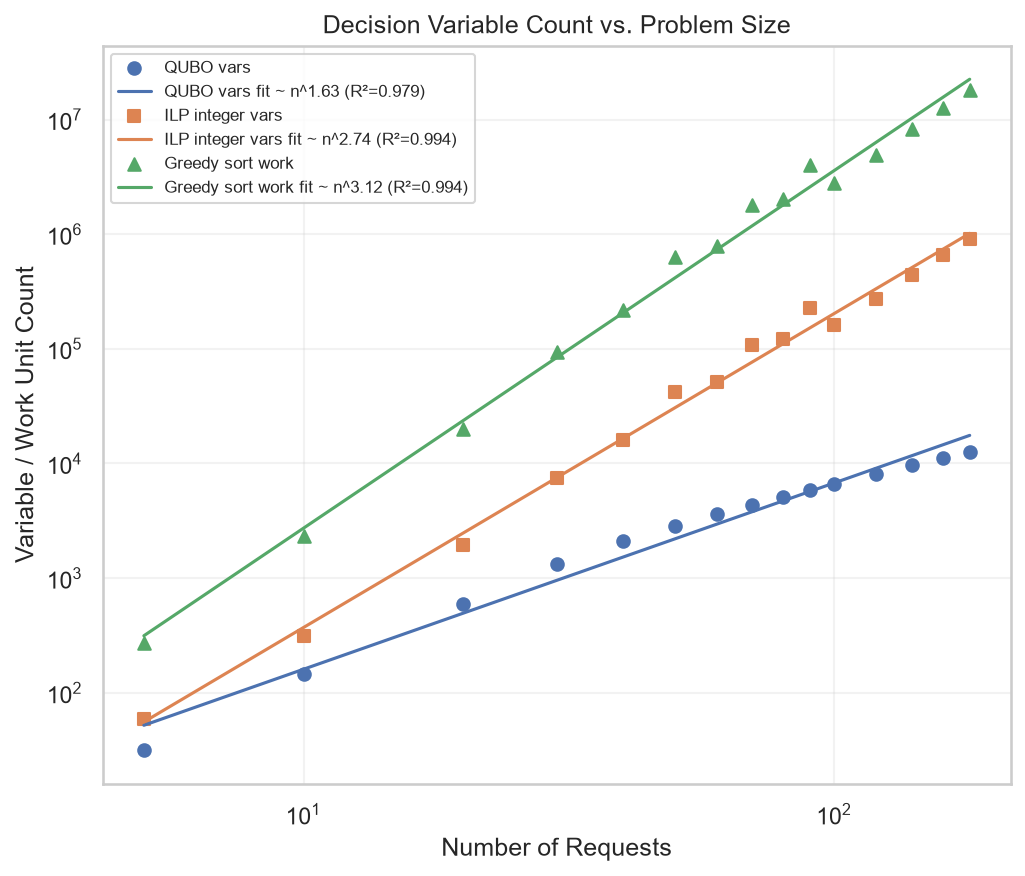
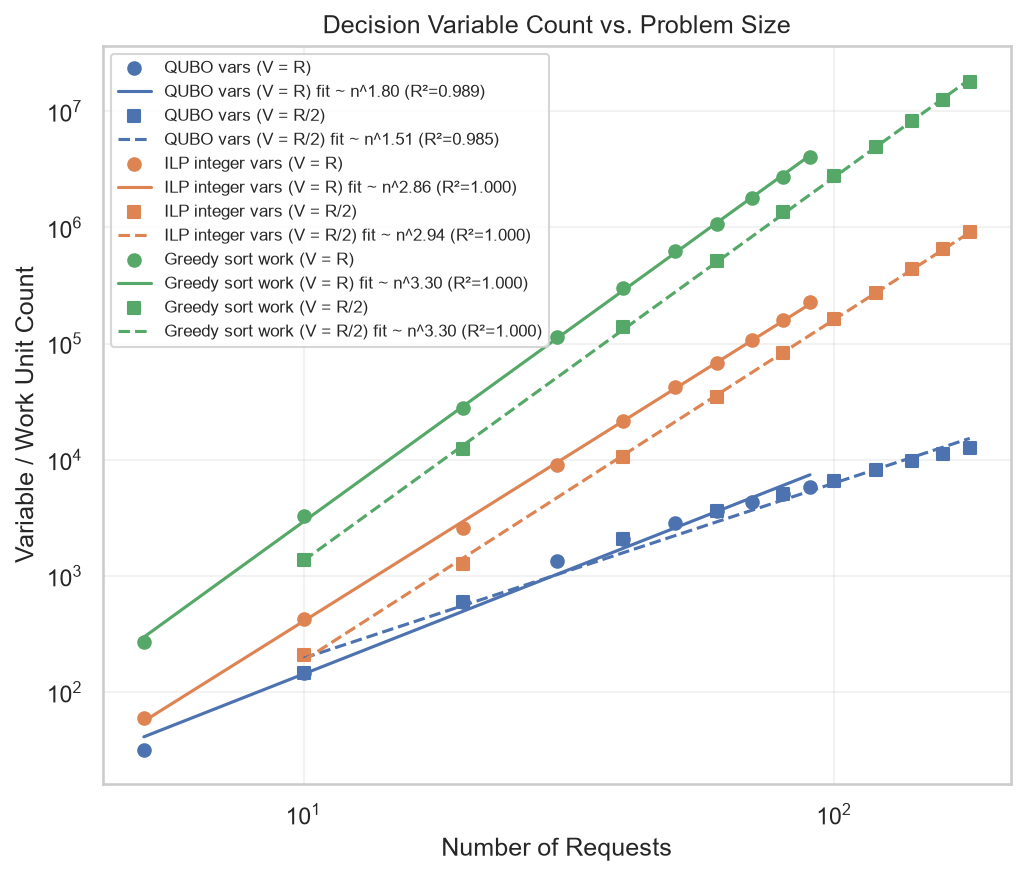
Update results to split

diff --git a/scripts/compare_results.py b/scripts/compare_results.py
@@ -10,6 +10,7 @@ Usage:
 from __future__ import annotations
 
 import argparse
+import sys
 from pathlib import Path
 
 import matplotlib.pyplot as plt
@@ -17,6 +18,18 @@ import numpy as np
 import pandas as pd
 import seaborn as sns
 from scipy import stats
+
+# Console output contains non-ASCII characters (e.g. lambda, +/-, R-squared).
+# On Windows the default console encoding (cp1252) cannot encode these and
+# raises UnicodeEncodeError mid-run. Force UTF-8 on the standard streams where
+# supported so the script prints its summaries on every platform.
+for _stream in (sys.stdout, sys.stderr):
+    _reconfigure = getattr(_stream, "reconfigure", None)
+    if _reconfigure is not None:
+        try:
+            _reconfigure(encoding="utf-8")
+        except (ValueError, OSError):
+            pass
 
 PROJECT_ROOT = Path(__file__).resolve().parents[1]
 DEFAULT_CSV = PROJECT_ROOT / "results" / "experiment_results.csv"
@@ -222,11 +235,17 @@ def plot_decision_dimensions(d_class, d_greedy, d_quant, figures_dir: Path, tabl
         if not sim.empty:
             qubo_src = sim
 
-    qubo_vars = avg_by_requests(qubo_src, "base_qubo_vars")
     qubo_coup = avg_by_requests(qubo_src, "base_qubo_couplers")
-    ilp_int = avg_by_requests(d_class, "ilp_num_integer_vars")
     ilp_nnz = avg_by_requests(d_class, "ilp_num_nonzero_coeffs")
-    greedy_work = avg_by_requests(d_greedy, "greedy_sort_work")
+
+    # Split each series by fleet ratio (V = R and V = R/2), matching the
+    # percent-serviced plot: same color per series, with marker / line style
+    # distinguishing the two ratios. Each ratio is fit with its own power law.
+    ratio_styles = [
+        ("V = R", lambda f: f[f["num_requests"] == f["num_vehicles"]], "o", "-"),
+        ("V = R/2", lambda f: f[f["num_requests"] == 2 * f["num_vehicles"]], "s", "--"),
+    ]
+    color_cycle = plt.rcParams["axes.prop_cycle"].by_key()["color"]
 
     plt.figure(figsize=(7, 6))
     ax = plt.gca()
@@ -238,21 +257,34 @@ def plot_decision_dimensions(d_class, d_greedy, d_quant, figures_dir: Path, tabl
     ax.grid(alpha=0.25)
 
     rows = []
-    for label, frame, col, marker in [
-        ("QUBO vars", qubo_vars, "base_qubo_vars", "o"),
-        ("ILP integer vars", ilp_int, "ilp_num_integer_vars", "s"),
-        ("Greedy sort work", greedy_work, "greedy_sort_work", "^"),
-    ]:
-        if frame.empty:
+    for idx, (label, src, col) in enumerate([
+        ("QUBO vars", qubo_src, "base_qubo_vars"),
+        ("ILP integer vars", d_class, "ilp_num_integer_vars"),
+        ("Greedy sort work", d_greedy, "greedy_sort_work"),
+    ]):
+        if src.empty or col not in src.columns or "num_vehicles" not in src.columns:
             continue
-        x = frame["num_requests"].to_numpy()
-        y = frame[col].to_numpy()
-        a, C, r2 = fit_powerlaw(x, y)
-        ax.scatter(x, y, marker=marker, label=label)
-        if np.isfinite(a):
-            xfit = np.logspace(np.log10(x.min()), np.log10(x.max()), 200)
-            ax.plot(xfit, C * (xfit**a), label=f"{label} fit ~ n^{a:.2f} (R²={r2:.3f})")
-            rows.append({"series": label, "exponent": a, "C": C, "R2": r2})
+        color = color_cycle[idx % len(color_cycle)]
+        for ratio_label, ratio_filter, marker, linestyle in ratio_styles:
+            frame = avg_by_requests(ratio_filter(src), col)
+            if frame.empty:
+                continue
+            x = frame["num_requests"].to_numpy()
+            y = frame[col].to_numpy()
+            ax.scatter(x, y, marker=marker, color=color, label=f"{label} ({ratio_label})")
+            a, C, r2 = fit_powerlaw(x, y)
+            if np.isfinite(a):
+                xfit = np.logspace(np.log10(x.min()), np.log10(x.max()), 200)
+                ax.plot(
+                    xfit,
+                    C * (xfit**a),
+                    color=color,
+                    linestyle=linestyle,
+                    label=f"{label} ({ratio_label}) fit ~ n^{a:.2f} (R²={r2:.3f})",
+                )
+                rows.append(
+                    {"series": f"{label} ({ratio_label})", "exponent": a, "C": C, "R2": r2}
+                )
     ax.legend(fontsize=8)
     savefig(figures_dir / "01_decision_variable_count.png")
 
@@ -615,26 +647,46 @@ def plot_service_quality(d_class, d_greedy, d_quant_sim, d_quant_real, figures_d
         piv = summary.pivot(index="num_requests", columns="method", values="percent_serviced")
         piv.to_csv(tables_dir / "percent_serviced_pivot.csv")
 
-    # % serviced with SEM
-    plt.figure(figsize=(7, 5))
+    # % serviced with SEM, split by fleet ratio (V = R and V = R/2).
+    # Each scenario pairs a vehicle count v with requests {v, 2v}, so we draw two
+    # curves per model: one where num_vehicles == num_requests and one where
+    # num_vehicles == num_requests / 2. Same color per model; the two ratios are
+    # distinguished by line style / marker.
+    ratio_styles = [
+        ("V = R", lambda f: f[f["num_requests"] == f["num_vehicles"]], "-o"),
+        ("V = R/2", lambda f: f[f["num_requests"] == 2 * f["num_vehicles"]], "--s"),
+    ]
+    color_cycle = plt.rcParams["axes.prop_cycle"].by_key()["color"]
+
+    plt.figure(figsize=(8, 5))
     ax = plt.gca()
     ax.set_ylim(0, 110)
-    ax.set_title("Requests vs % Serviced (mean ± SEM)")
+    ax.set_title("Requests vs % Serviced by fleet ratio (mean ± SEM)")
     ax.set_xlabel("Number of Requests")
     ax.set_ylabel("% Serviced")
     ax.grid(alpha=0.25)
-    for name, frame in series:
+    for idx, (name, frame) in enumerate(series):
         if frame.empty or "percent_serviced" not in frame.columns:
             continue
-        data = avg_by_requests_sem(frame, "percent_serviced")
-        ax.errorbar(
-            data["num_requests"],
-            data["percent_serviced_mean"],
-            yerr=data["percent_serviced_sem"],
-            fmt="-o",
-            capsize=3,
-            label=name,
-        )
+        if "num_vehicles" not in frame.columns:
+            continue
+        color = color_cycle[idx % len(color_cycle)]
+        for ratio_label, ratio_filter, fmt in ratio_styles:
+            sub = ratio_filter(frame)
+            if sub.empty:
+                continue
+            data = avg_by_requests_sem(sub, "percent_serviced")
+            if data.empty:
+                continue
+            ax.errorbar(
+                data["num_requests"],
+                data["percent_serviced_mean"],
+                yerr=data["percent_serviced_sem"],
+                fmt=fmt,
+                capsize=3,
+                color=color,
+                label=f"{name} ({ratio_label})",
+            )
     ax.legend(fontsize=8)
     savefig(figures_dir / "10_percent_serviced.png")
 
